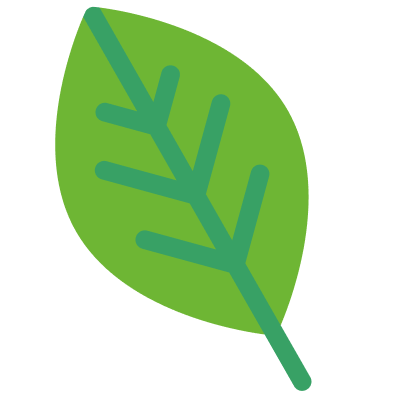
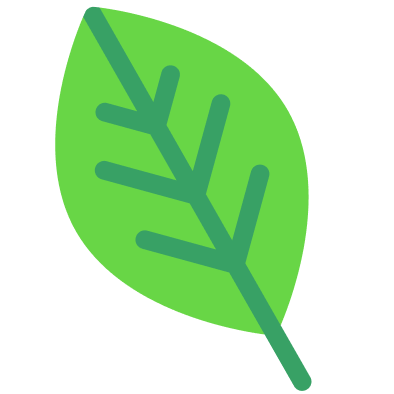
update font, colors and other styles

Changed region(s): [[0.1218, 0.0, 0.7919, 0.8528]]

diff --git a/Client/goaleaf/src/components/routes/Auth/Auth.scss b/Client/goaleaf/src/components/routes/Auth/Auth.scss
@@ -14,7 +14,7 @@
         align-self: flex-start;
         color: $secondary-color;
         margin: 0 0 1em 0;
-        font-size: 1.8em;
+        font-size: 2em;
         font-weight:  500;
         letter-spacing: 1px;
     }
@@ -35,19 +35,20 @@
         .InputField {
             background-color: $primary-color;
             height: 40px;
-            font-family: 'Poppins', sans-serif;
+            font-family: 'Nunito', sans-serif;          
             font-size: 1.2em;
-            font-weight: 300;   
+            font-weight: 100;   
             letter-spacing: 1px;      
             color: #333;
             caret-color: $text-color;
             margin: 0.8em 0;
             border: none;
-            border-bottom: 2px solid $secondary-color;
+            border-bottom: 1px solid $secondary-color;
             outline: 0;
         }
-        .InputField::placeholder {
+        .InputField::-webkit-input-placeholder {
             opacity: 0.6;
+            font-weight: lighter;
         }
         .ErrorMsg {
             color: $error-color;
@@ -60,15 +61,19 @@
             margin-top: 2em;
             
             input {
-                height: 38px;
+                height: 37px;
                 width: 96px;
-                font-size: 1.1em;
-                letter-spacing: 1px;
+                font-family: 'Nunito', sans-serif;          
+                font-size: 1.05em;
+                font-weight: 400;
+                letter-spacing: 1.5px;
                 outline: 0;
                 border: none;
                 border-radius: 20px;
-                box-shadow: 2px 2px 10px 0px rgba(51,51,51,0.3);
                 cursor: pointer;
+            }
+            input:hover {
+                box-shadow: 2px 2px 10px 0px rgba(51,51,51,0.3);                
             }
             input:first-child {
                 background-color: $secondary-color;
@@ -87,7 +92,7 @@
             font-size: 0.85em;
             text-decoration: none;
             margin-top: 1em;
-            opacity: 0.8;
+            opacity: 0.6;
         }
     }
     .LogoBg1, .LogoBg2 {

diff --git a/Client/goaleaf/src/components/containers/Navbar/NavNotLogged.js b/Client/goaleaf/src/components/containers/Navbar/NavNotLogged.js
@@ -18,8 +18,8 @@ class NavNotLogged extends Component {
 
     return (
         <ul className="NavNotLogged" style={ navStyle }>
-            <li onClick = { this.props.handleNavElementClicked } ><NavLink to='/login' activeStyle={{color: '#5DAD1D' }}>log in</NavLink></li>
-            <li onClick = { this.props.handleNavElementClicked } ><NavLink to='/signin' activeStyle={{color: '#5DAD1D' }}>sign in</NavLink></li>
+            <li onClick = { this.props.handleNavElementClicked } ><NavLink to='/login' activeStyle={{color: '#57d131' }}>log in</NavLink></li>
+            <li onClick = { this.props.handleNavElementClicked } ><NavLink to='/signin' activeStyle={{color: '#57d131' }}>sign in</NavLink></li>
         </ul>
     )
   }

diff --git a/Client/goaleaf/public/index.html b/Client/goaleaf/public/index.html
@@ -23,7 +23,8 @@
       Learn how to configure a non-root public URL by running `npm run build`.
     -->
     <title>goaleaf</title>
-    <link href="https://fonts.googleapis.com/css?family=Poppins:200,200i,300,300i,400,400i,500,500i,600,600i,700,700i,800,800i,900,900i" rel="stylesheet">
+    <link href="https://fonts.googleapis.com/css?family=Nunito:200,200i,300,300i,400,400i,600,600i,700,700i,800,800i,900,900i" rel="stylesheet">
+
   </head>
   <body>
     <noscript>You need to enable JavaScript to run this app.</noscript>

diff --git a/Client/goaleaf/src/components/containers/Navbar/Navbar.scss b/Client/goaleaf/src/components/containers/Navbar/Navbar.scss
@@ -19,7 +19,7 @@
         color: $secondary-color;
         margin-left: 1em;
         font-size: 1.3em;
-        font-weight: 300;
+        font-weight: 400;
         letter-spacing: 1px;
         text-decoration: none;
         position: relative;
@@ -28,7 +28,7 @@
         content: url('./../../../assets/logo.png');
         position: absolute;
         top: -10px;
-        left: 88px;
+        left: 80px;
         
     }
     @include md {

diff --git a/Client/goaleaf/src/global-styles.scss b/Client/goaleaf/src/global-styles.scss
@@ -1,6 +1,6 @@
-$primary-color: #F2F2F2;
-$secondary-color: #5DAD1D;
-$text-color: #333;
+$primary-color: #f5f5f5;
+$secondary-color: #57d131;
+$text-color: #343434;
 $error-color: #c40b13;
 $navbar-height: 70px;
 

diff --git a/Client/goaleaf/src/index.scss b/Client/goaleaf/src/index.scss
@@ -4,5 +4,5 @@ body {
   margin: 0;
   padding: 0;
   background-color: $primary-color;
-  font-family: 'Poppins', sans-serif;
+  font-family: 'Nunito', sans-serif;
 }
